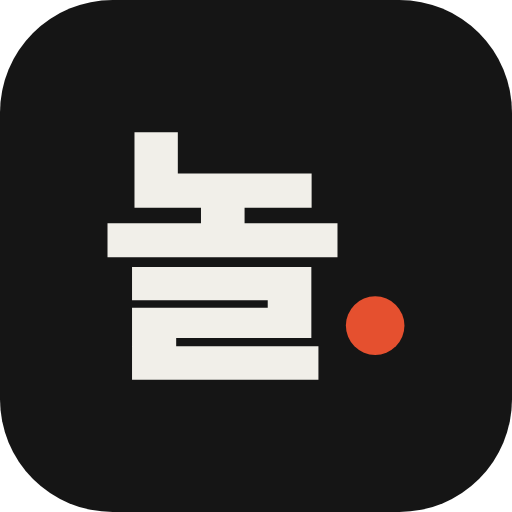
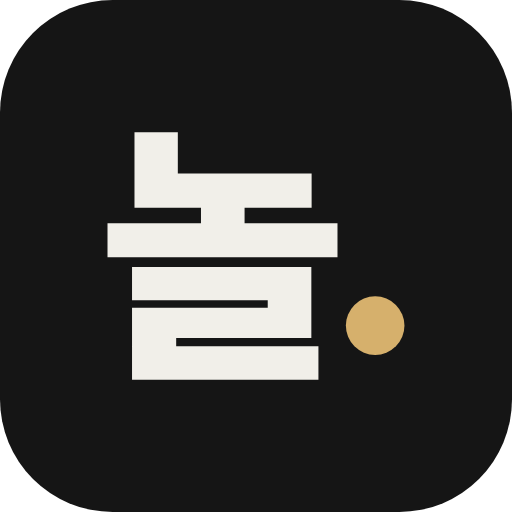
Champagne-gold accent with a softer glow
Switch the accent from neon orange to champagne gold (#d6b06c) with dark
button text, and calm the neon: a soft halo on accent type instead of a
strong glow, gentler button and sticker shadows. Regenerate the logo,
favicon and app icons with the gold full stop (orange profile icon
replaced by a gold one). Fix --accent-deep, which pointed at itself and
left button hover backgrounds empty.

Claude-Session: https://claude.ai/code/session_01Xc5AS2HctkbC4xw4yuZPMC

Changed region(s): [[0.6562, 0.5625, 0.8125, 0.7188]]

diff --git a/css/styles.css b/css/styles.css
@@ -12,11 +12,11 @@
   --muted: #8a8598;
   --line: #2a2636;
   /* the accent: change --accent-rgb (and its tint/shade) to re-colour the site */
-  --accent-rgb: 255 90 46;
+  --accent-rgb: 214 176 108;    /* champagne gold */
   --accent: rgb(var(--accent-rgb));
-  --accent-2: #ff9466;          /* light tint, for small accent text */
-  --accent-deep: var(--accent-deep);       /* hover shade */
-  --on-accent: #ffffff;         /* text on accent-coloured buttons */
+  --accent-2: #ecd7ab;          /* light tint, for small accent text */
+  --accent-deep: #b38c45;       /* hover shade */
+  --on-accent: #1a1408;         /* text on accent-coloured buttons */
   --neon-pink: #ff2fa8;
   --neon-violet: #7d5cff;
   --neon-cyan: #2ee6ff;
@@ -25,7 +25,7 @@
   --night-line: #26222f;
   --night-ink: #f4f1ec;
   --night-muted: #8a8598;
-  --glow-accent: 0 0 18px rgb(var(--accent-rgb) / .55), 0 0 46px rgb(var(--accent-rgb) / .3);
+  --glow-accent: 0 0 26px rgb(var(--accent-rgb) / .16);  /* a soft halo, not neon */
   color-scheme: dark;
 
   --sans: 'Inter Tight', 'Inter', system-ui, -apple-system, 'Segoe UI', sans-serif;
@@ -114,7 +114,7 @@ body.playing .brand-logo .logo-dot { animation: beat var(--beat, .5s) ease-out i
 .hero-lede .ko { color: var(--ink); }
 .hero-ctas { display: flex; flex-wrap: wrap; gap: 12px; margin-bottom: clamp(28px, 4vw, 44px); }
 .btn-primary, .btn-ghost { display: inline-flex; align-items: center; gap: 12px; border-radius: 99px; text-decoration: none; font-weight: 600; font-size: 16.5px; transition: transform .3s var(--ease-spring), background .3s, color .3s, box-shadow .3s; }
-.btn-primary { background: var(--accent); color: var(--on-accent); padding: 13px 24px 13px 13px; box-shadow: 0 16px 34px -14px rgb(var(--accent-rgb) / .9), 0 0 26px rgb(var(--accent-rgb) / .45); }
+.btn-primary { background: var(--accent); color: var(--on-accent); padding: 13px 24px 13px 13px; box-shadow: 0 14px 30px -16px rgb(var(--accent-rgb) / .6); }
 .btn-primary:hover { transform: translateY(-2px); background: var(--accent-deep); }
 .btn-disc { width: 30px; height: 30px; border-radius: 50%; background: radial-gradient(circle, #fff 0 12%, #111 14% 32%, #2a2a2a 33% 100%); }
 .btn-primary:hover .btn-disc { animation: spin .9s linear infinite; }
@@ -160,7 +160,7 @@ body.playing .brand-logo .logo-dot { animation: beat var(--beat, .5s) ease-out i
   position: absolute; z-index: 3; right: 6%; bottom: 8%; width: 23%; aspect-ratio: 1; border-radius: 50%; display: grid; place-items: center; text-align: center;
   background: #0c0a12; color: var(--accent); font-size: clamp(10px, 1vw, 13px); line-height: 1.25; letter-spacing: .12em; transform: rotate(-12deg);
   border: 1.5px solid var(--accent); text-shadow: var(--glow-accent);
-  box-shadow: 0 14px 30px -12px rgba(0,0,0,.8), 0 0 22px rgb(var(--accent-rgb) / .45), inset 0 0 14px rgb(var(--accent-rgb) / .25); animation: sticker 1s 1.4s var(--ease-spring) both;
+  box-shadow: 0 14px 30px -12px rgba(0,0,0,.8), inset 0 0 12px rgb(var(--accent-rgb) / .12); animation: sticker 1s 1.4s var(--ease-spring) both;
 }
 @keyframes sticker { from { transform: rotate(-40deg) scale(.4); opacity: 0; } }
 .hero-scroll { position: absolute; left: 50%; bottom: 22px; transform: translateX(-50%); color: var(--muted); text-decoration: none; font-size: 10.5px; }
@@ -199,7 +199,7 @@ body::after {
 .book { background: radial-gradient(900px 600px at 0% 100%, rgba(125, 92, 255, .16), transparent 70%), radial-gradient(700px 500px at 100% 0%, rgb(var(--accent-rgb) / .1), transparent 70%), var(--night) !important; }
 .section-title { text-shadow: 0 0 40px rgba(125, 92, 255, .18); }
 .nav-cta { box-shadow: 0 0 18px rgb(var(--accent-rgb) / .0); transition: box-shadow .3s; }
-.nav-cta:hover { box-shadow: 0 0 22px rgb(var(--accent-rgb) / .55); }
+.nav-cta:hover { box-shadow: 0 0 22px rgb(var(--accent-rgb) / .3); }
 
 /* ------------------------------------------------------------------ reviews + venues */
 .reviews { background: var(--night); color: var(--night-ink); padding: clamp(80px, 10vw, 130px) 0 clamp(70px, 9vw, 110px); overflow: hidden; overflow: clip; }

diff --git a/README.md b/README.md
@@ -41,7 +41,7 @@ Edit `js/reviews.js`. Each review has a quote, a name, the event type, optional 
 | Reviews and venues you've played | `js/reviews.js` |
 | Top section, About text, services, process steps | `index.html` |
 | Your photo | Add `assets/portrait.jpg` (square works best). A styled placeholder shows until you do. |
-| Colours and fonts | CSS variables at the top of `css/styles.css` |
+| Colours and fonts | CSS variables at the top of `css/styles.css` (the accent is one setting: `--accent-rgb`, plus its tint, hover shade and button text colour) |
 
 ### Booking form delivery
 
@@ -64,13 +64,13 @@ Each record's `style` picks the beat and instrument pattern (`lofi`, `boombap`, 
 
 ## Brand
 
-The logo is **놀자.**: 놀자 set in Pretendard Black with an orange full stop. The files in `assets/brand/` are outlined, so they don't need the font installed:
+The logo is **놀자.**: 놀자 set in Pretendard Black with a champagne-gold full stop. The files in `assets/brand/` are outlined, so they don't need the font installed:
 
 - `nolza-logo.svg` / `.png`: dark logo for light backgrounds
 - `nolza-logo-light.svg` / `.png`: light logo for dark backgrounds
 - `nolza-logo-mono.svg`: one colour, for print or engraving
 - `nolza-icon.svg`, `nolza-icon-512.png`, `apple-touch-icon.png`, `favicon-32.png`: the 놀. app icon
-- `nolza-icon-orange.svg` / `-512.png`: orange variant for profile pictures
+- `nolza-icon-gold.svg` / `-512.png`: gold variant for profile pictures
 
 On the site, the full stop pulses on the beat while a record is playing.
 
